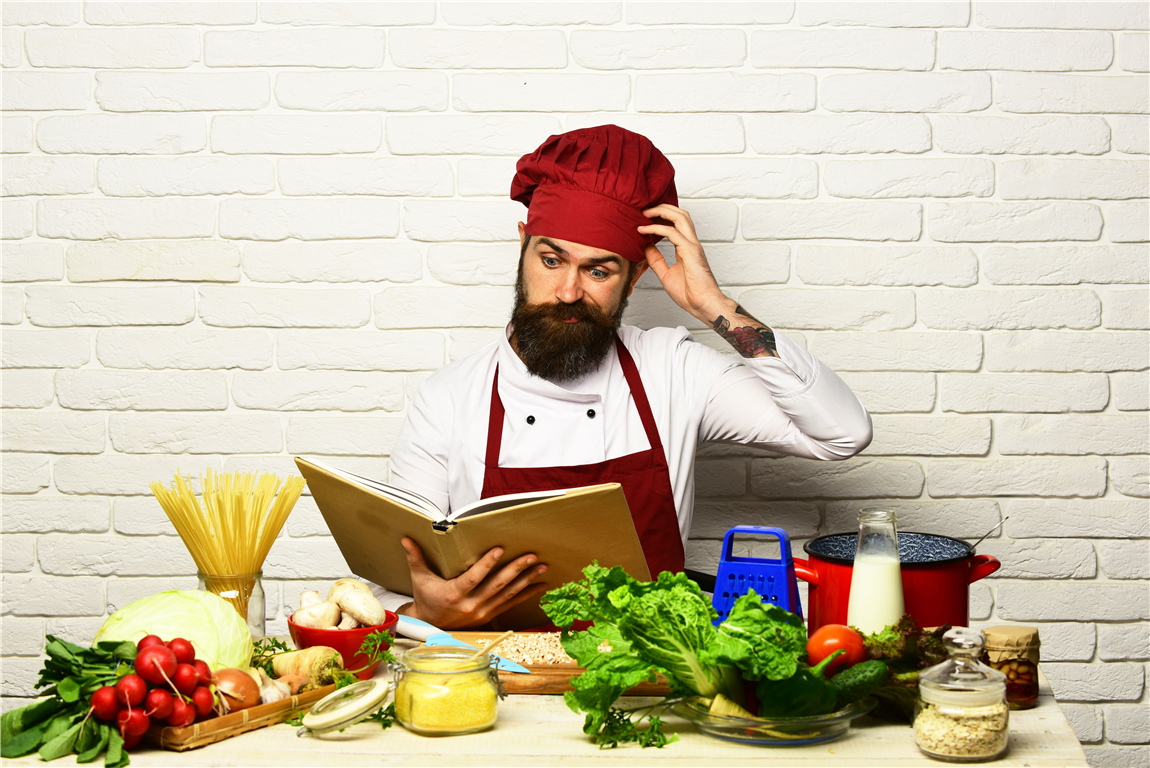
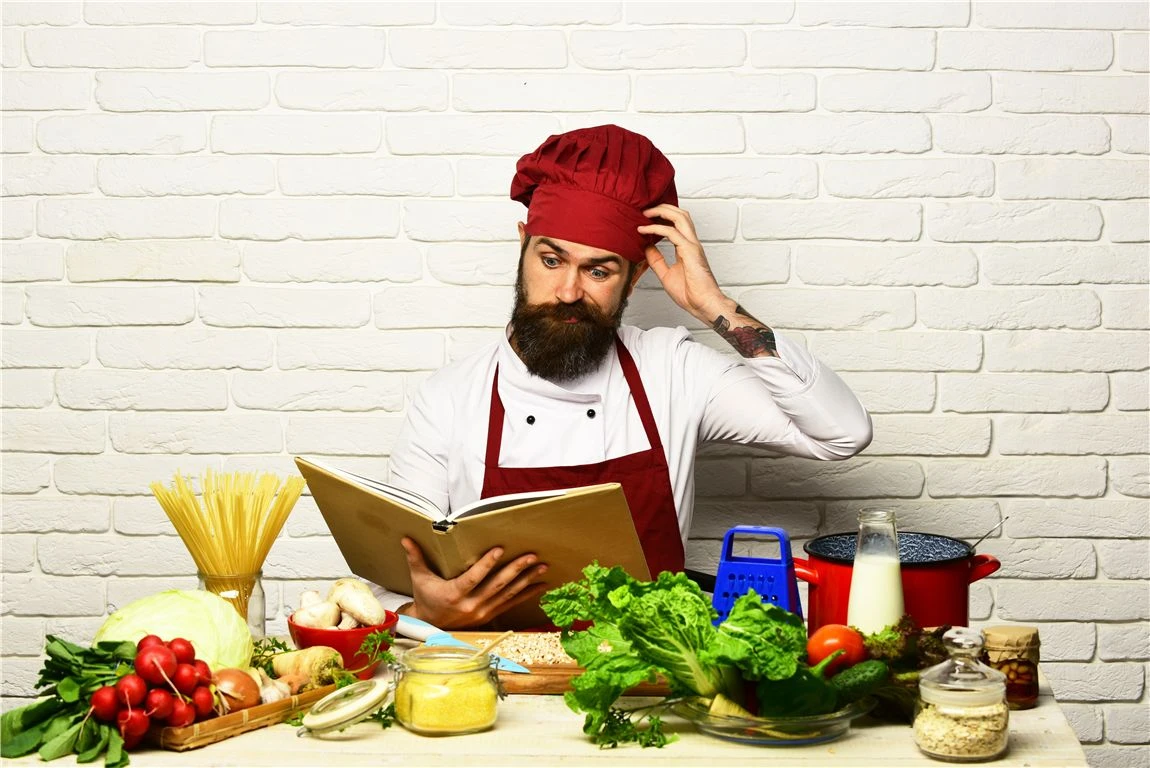
Update images to webp files

diff --git a/assets/js/script.js b/assets/js/script.js
@@ -258,47 +258,6 @@ function displayIcon() {
     }
 }
 
-// function trapFocus(e) {
-//     let focusableElString = "a[href], input:not([disabled]), button:not([disabled])";
-//     let focusableElements = correctModal.querySelectorAll(focusableElString);
-
-//     focusableElements - Array.prototype.slice.call(focusableElements);
-
-//     let firstTabStop = focusableElements[0];
-//     let lastTabStop = focusableElements[focusableElements.length - 1];
-
-//     firstTabStop.focus();
-
-//     if (e.key = "Tab") {
-//         if (e.shiftKey) {
-//             if (document.activeElement === firstTabStop) {
-//                 e.preventDefault();
-//                 lastTabStop.focus();
-//             }
-//         } else {
-//             if (document.activeElement === lastTabStop) {
-//                 e.preventDefault();
-//                 firstTabStop();
-//             }
-//         }
-//     }
-
-//     if (e.key = "Escape") {
-//         closeCorrectModal();
-//     }
-// }
-
-
-
-
-// function catchFocus() {
-//     if (correctModal.style.display === "block") {
-//         closeButton.focus();
-//     } else {
-//         rawUserAnswer.focus();
-//     }
-// }
-
 startGame();
 
 

diff --git a/rules.html b/rules.html
@@ -35,7 +35,7 @@
             <h1>Kitchen Catastrophe!</h1>
         
             <!-- Chef image -->
-            <img class="chef-image" src="assets/images/chefpeeking.png" alt="A chef peeks over the top with their eyes">
+            <img class="chef-image" src="assets/images/chef-peeking.webp" alt="A chef peeks over the top with their eyes">
 
             <!-- Game instructions -->
             <div class="border">
